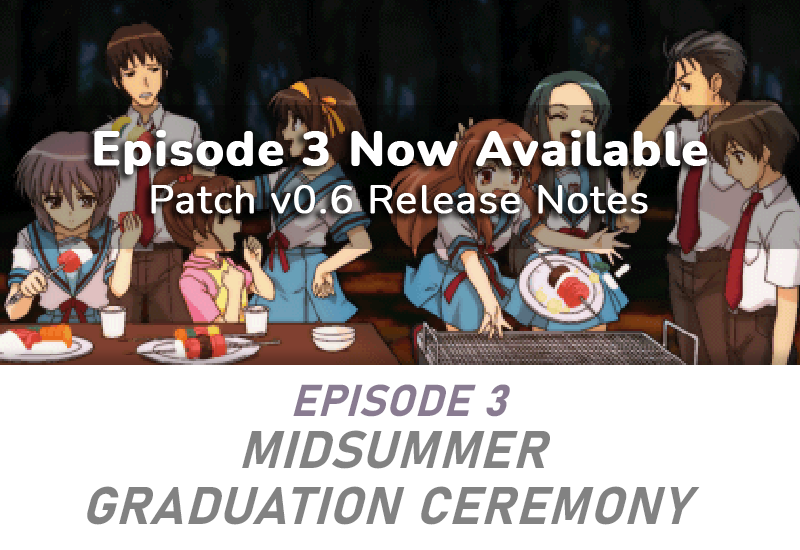
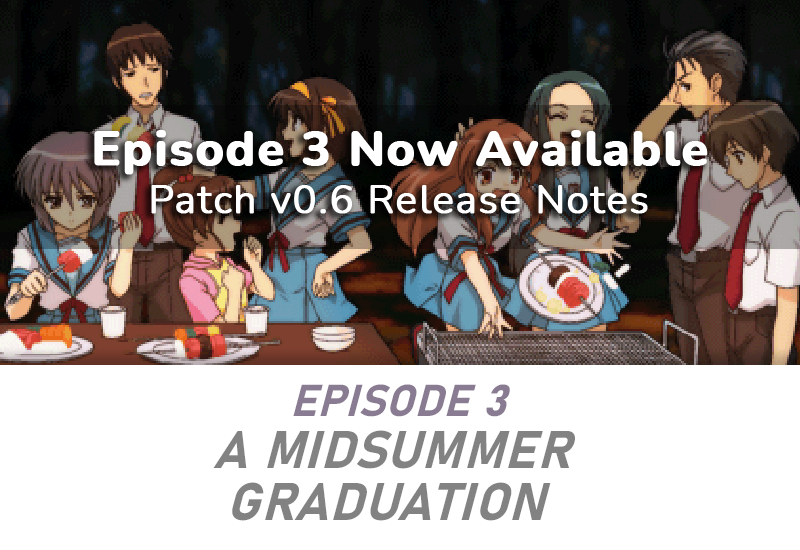
actually get the episode title correct (lol)

Changed region(s): [[0.0938, 0.7727, 0.875, 0.9582]]

diff --git a/content/blog/9.2023-10-31-episode-3-now-available.md b/content/blog/9.2023-10-31-episode-3-now-available.md
@@ -1,6 +1,6 @@
 ---
 title: &title 'The Series of Haruhi Suzumiya – Episode 3 is now available!'
-description: &desc 'Play Episode 3: Midsummer Graduation Ceremony in Version 0.6 of Suzumiya Haruhi no Chokuretsu''s English Patch, available now!'
+description: &desc 'Play Episode 3: A Midsummer Graduation in Version 0.6 of Suzumiya Haruhi no Chokuretsu''s English Patch, available now!'
 navigation:
   author: 'William'
   year: 2023
@@ -38,14 +38,14 @@ video: M6zZR2zhEMs
 ----
 ::
 
-Happy Halloween, everyone! We've been cooking at the Haroohie Translation Club and we're now ready to give you a turn at the grill with the release of **Version 0.6** of our Suzumiya Haruhi no Chokuretsu English Fan Translation patch, which translates the game through *Episode 3: Midsummer Graduation Ceremony*.
+Happy Halloween, everyone! We've been cooking at the Haroohie Translation Club and we're now ready to give you a turn at the grill with the release of **Version 0.6** of our Suzumiya Haruhi no Chokuretsu English Fan Translation patch, which translates the game through *Episode 3: A Midsummer Graduation*.
 
 A huge thank you to [EricDoesEverything](https://www.youtube.com/@EricDoesEverythingSeries) for once again putting together our (fittingly spooky for October 31) release trailer!
 
 Of course, as well as Episode 3, we've been going back and improving other areas of our patch too. Take a look at our changelog below!
 
 ## What's new in v0.6
-* *Episode 3: Midsummer Graduation Ceremony* has been translated and can now be played in English!
+* *Episode 3: A Midsummer Graduation* has been translated and can now be played in English!
 * *Episode 1: The Man-Eating Classroom* has had various script rewrites and changes to bring certain sections up to standards with the quality of Episode 3's translation, and to reflect changes in our processes since then.
   * Smaller changes have also been made to the script of Episode 2.
 * Translated additional graphics

diff --git a/content/blog/8.2023-09-11-september-2023-progress-update.md b/content/blog/8.2023-09-11-september-2023-progress-update.md
@@ -41,9 +41,9 @@ We're pleased to announce that we've reached the incredible milestone of complet
 
 Of course, translating is just the first step in our quality assurance process! We still have a lot of files left to proofread (where editors read through, correct typos and unnatural-sounding dialogue), translation check (where a second translator has a read through and adjusts the script if needed), and review (which is done by project lead, [Jonko](/author/jonko)). Not to mention creating the remaining graphics and thorough playtesting! We've also been going through and updating some of the earlier files to bring their translation quality in-line with our current standards.
 
-![The in-game episode header for Episode 3: Midsummer Graduation Ceremony, from Suzumiya Haruhi no Chokuretsu](/images/blog/0008/03_midsummer_graduation_ceremony_header.png)
+![The in-game episode header for Episode 3: A Midsummer Graduation, from Suzumiya Haruhi no Chokuretsu](/images/blog/0008/03_midsummer_graduation_ceremony_header.png)
 
-We're excited to bring you the English translation of *Chapter 3: Midsummer Graduation Ceremony* very soon! Stay tuned here and on our socials for the update post!
+We're excited to bring you the English translation of *Chapter 3: A Midsummer Graduation* very soon! Stay tuned here and on our socials for the update post!
 
 *(P.S. &mdash; have you checked out the editing suite we've built for Chokuretsu, [Serial Loops](/chokuretsu/serial-loops/), yet?!)*
 
